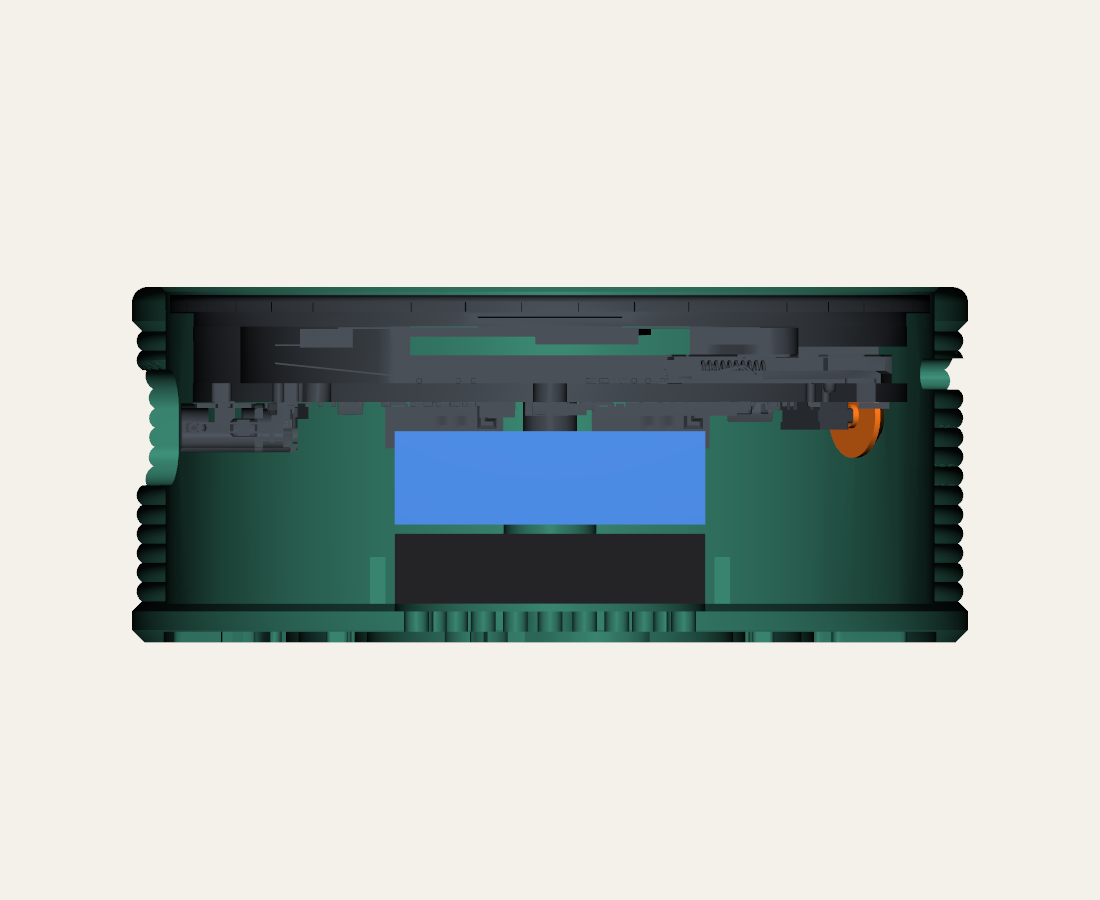
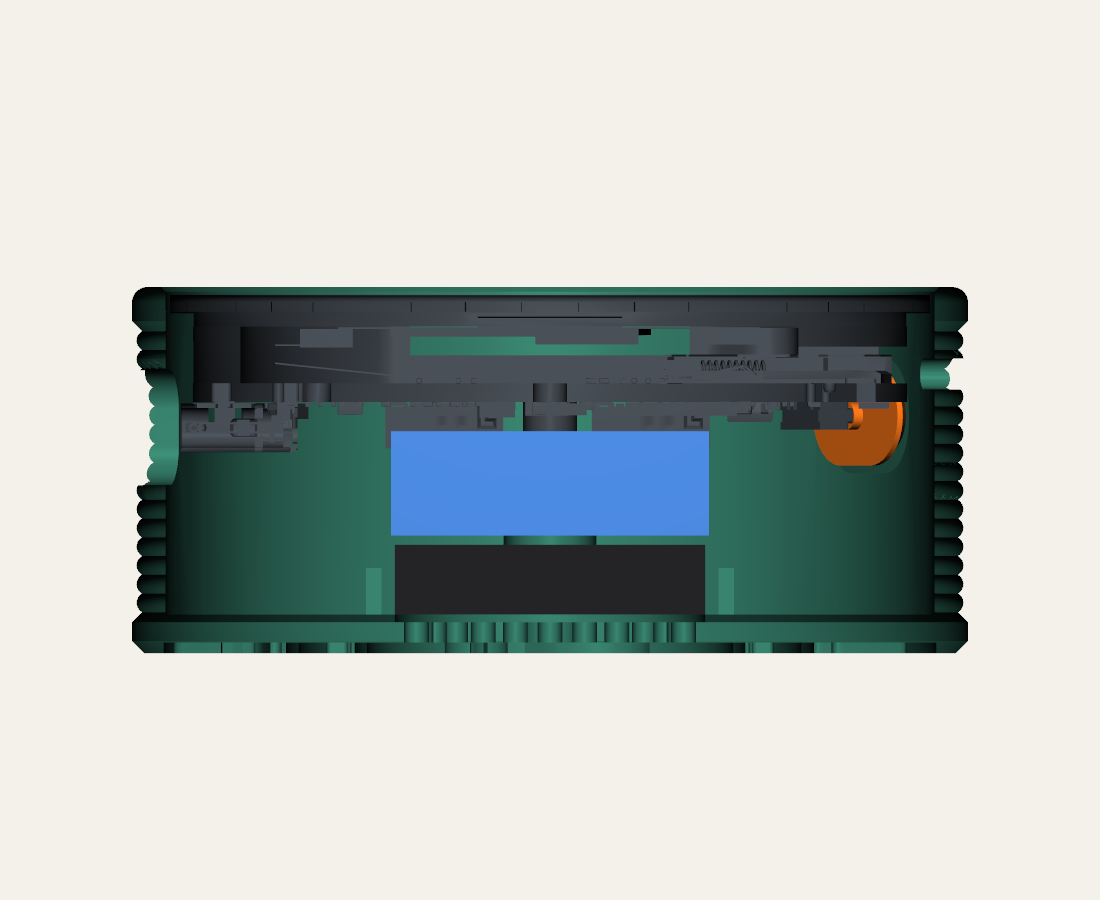
case: battery bay sized for a real 602030 with its protection board (20.5 x 32 x 6.7 mm), stack moved 0.8 mm towards 12 o'clock; battery case is 23.6 mm

Changed region(s): [[0.1236, 0.5289, 0.8964, 0.7467], [0.34, 0.4978, 0.6491, 0.6222], [0.7418, 0.4356, 0.8964, 0.5289]]

diff --git a/case/params.py b/case/params.py
@@ -82,8 +82,8 @@ GRILLE_CHAMBER = 0.5  # recess inside the floor so the speaker can breathe into 
 # 12 o'clock. The speaker lies face down on the floor behind the grille; in the battery case
 # the cell lies on top of it. Measure yours: the floor drops to fit whatever you set here.
 SPEAKER = (20.0, 30.0, 4.5)  # the 8 ohm speaker from the box; None for a thinner, silent case
-BATTERY = (20.0, 30.0, 6.0)  # battery case only; 20 x 30 LiPo cells (402030 ... 802030) are common
-BAY_CENTER_Y = -1.8
+BATTERY = (20.5, 32.0, 6.7)  # battery case only: a real 602030 with its protection board
+BAY_CENTER_Y = -1.0
 STACK_GAP = 0.6  # around and above each item (LiPo pouches swell)
 PLUG_ROOM = 3.5  # below the BAT/SPK sockets, for a mated plug and its wires bending away
 RAIL_WALL = 1.0  # two low rails keep the stack over the grille

diff --git a/case/README.md b/case/README.md
@@ -44,7 +44,7 @@ Waveshare's own STEP model of the board (in `../docs/`).
 | `*.step` | Solid models that open in Fusion 360, Onshape, FreeCAD or Bambu Studio |
 | `fit_test_ring.stl` | Top 10 mm of the case: a short print to try the glass, USB-C and buttons first |
 
-Sizes: the USB case is D53.9 x 18.2 mm; the battery case is 22.9 mm thick.
+Sizes: the USB case is D53.9 x 18.2 mm; the battery case is 23.6 mm thick.
 Without the speaker (`SPEAKER = None`) the case is 16.3 mm thick.
 
 ## Printing on the P2S
@@ -97,9 +97,10 @@ and PWR turns the device on and off.
 - **Capacity: 300 mAh or more.** The AXP2101 charges at 300 mA unless firmware changes it
   (register 0x62, default 300 mA to 4.2 V). The firmware here leaves that alone, and a cell
   should charge at no more than its own capacity per hour.
-- **Size for the battery case:** a 20 x 30 mm footprint, 6 mm thick or less. A 602030 is about
-  300 to 400 mAh. A thicker 802030 (about 500 mAh) also works: set `BATTERY = (20.0, 30.0, 8.0)`
-  in `params.py` and the case grows 2 mm.
+- **Size for the battery case:** a 602030 cell, 300 to 400 mAh. With its protection board it
+  measures about 20.5 x 32 x 6.7 mm, which is what `BATTERY` is set to. Measure yours when it
+  arrives and update `BATTERY`, then run `check.py`. A thicker 802030 (about 500 mAh) also works:
+  set the thickness to 8.7 and the case grows 2 mm.
 - **Runtime:** expect roughly 2 to 3 hours from 300 to 400 mAh. That figure is an estimate from
   typical ESP32-S3 and AMOLED draw, not a measurement.
 
